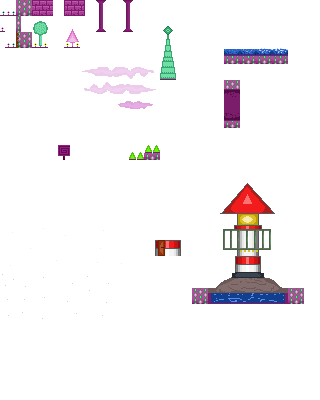
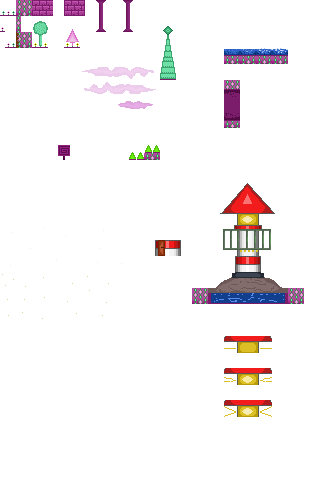
leuchtturm animation

diff --git a/map/main.tsx b/map/main.tsx
@@ -1,6 +1,6 @@
 <?xml version="1.0" encoding="UTF-8"?>
-<tileset name="main" tilewidth="16" tileheight="16" tilecount="400" columns="20">
- <image source="tilesheet.png" width="320" height="320"/>
+<tileset name="main" tilewidth="16" tileheight="16" tilecount="1240" columns="20">
+ <image source="tilesheet.png" width="320" height="500"/>
  <tile id="94">
   <animation>
    <frame tileid="74" duration="200"/>
@@ -19,6 +19,30 @@
    <frame tileid="76" duration="200"/>
    <frame tileid="75" duration="200"/>
    <frame tileid="74" duration="200"/>
+  </animation>
+ </tile>
+ <tile id="430">
+  <animation>
+   <frame tileid="434" duration="400"/>
+   <frame tileid="474" duration="300"/>
+   <frame tileid="514" duration="200"/>
+   <frame tileid="474" duration="100"/>
+  </animation>
+ </tile>
+ <tile id="450">
+  <animation>
+   <frame tileid="436" duration="400"/>
+   <frame tileid="476" duration="300"/>
+   <frame tileid="516" duration="200"/>
+   <frame tileid="476" duration="100"/>
+  </animation>
+ </tile>
+ <tile id="470">
+  <animation>
+   <frame tileid="435" duration="400"/>
+   <frame tileid="475" duration="300"/>
+   <frame tileid="515" duration="200"/>
+   <frame tileid="475" duration="100"/>
   </animation>
  </tile>
 </tileset>
